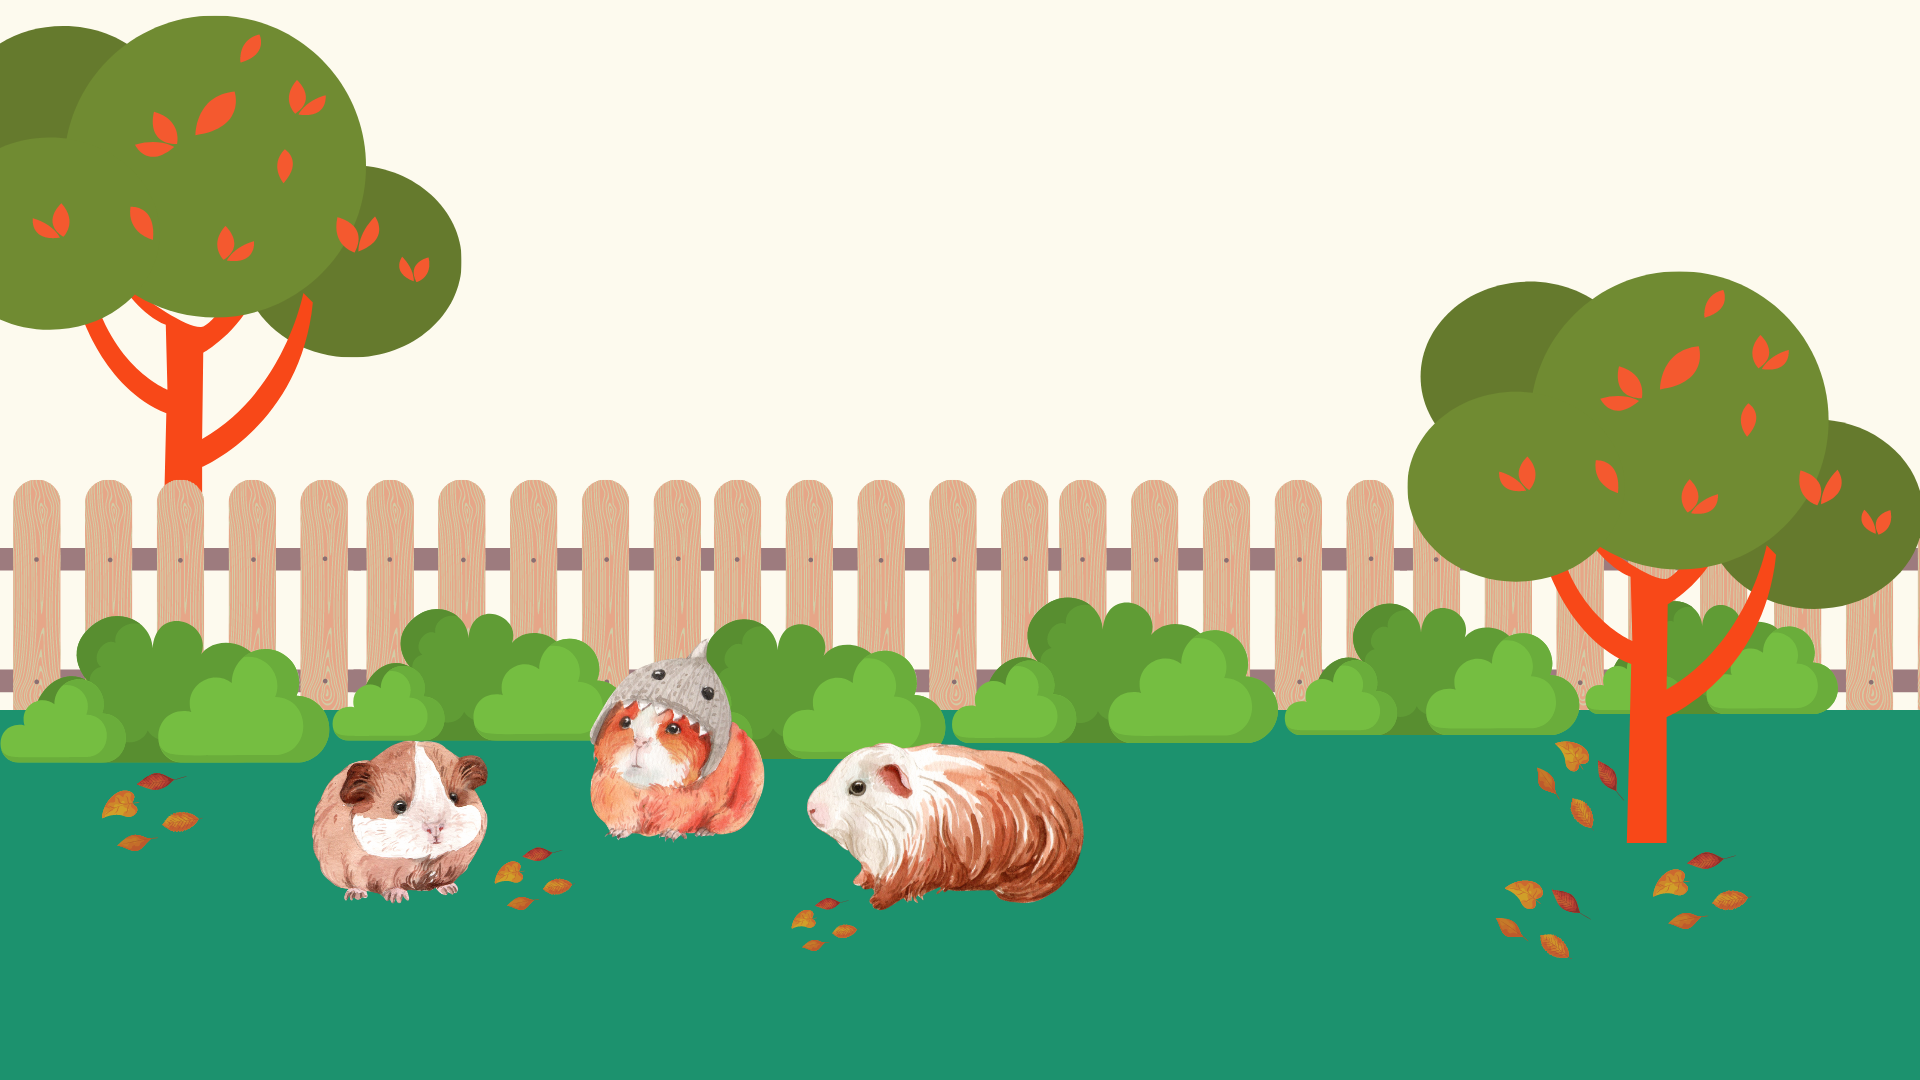
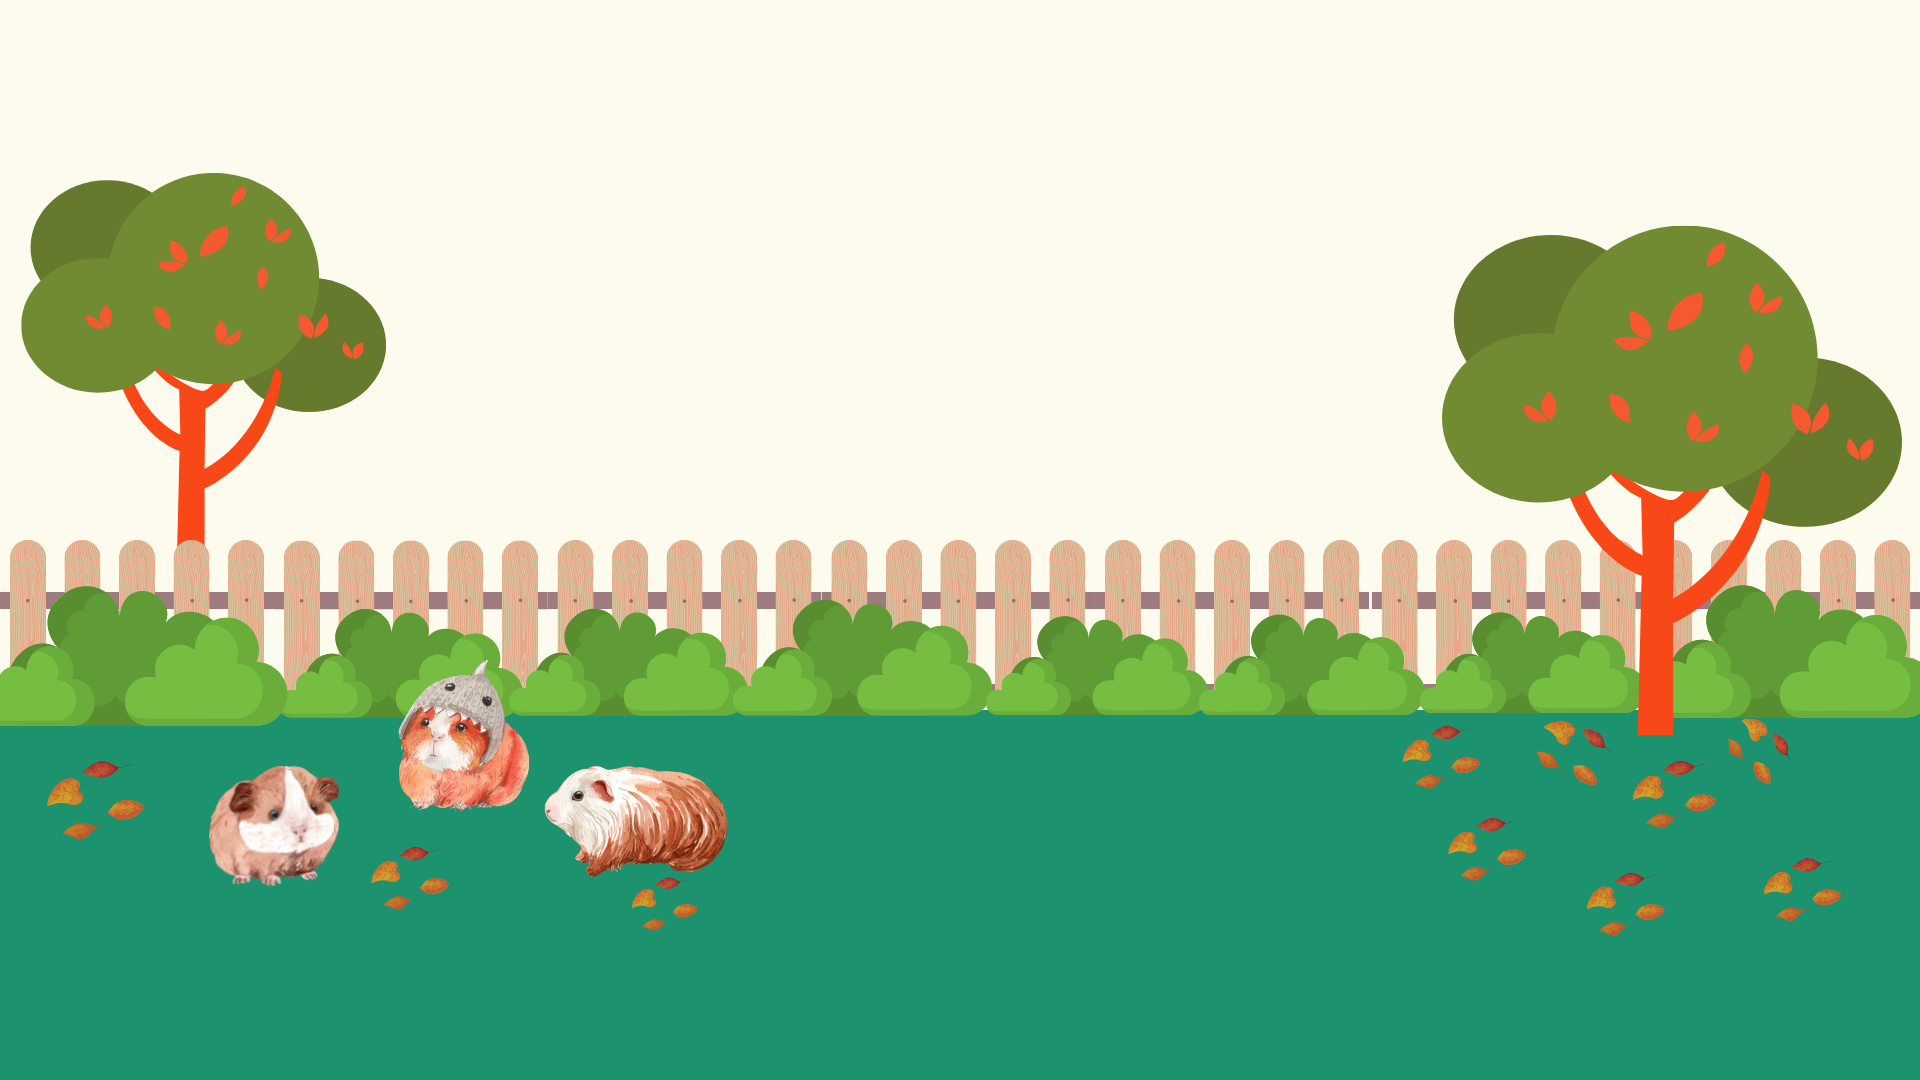
Realice cambios Responsive

Changed region(s): [[0.0, 0.0, 1.0, 0.8861], [0.7812, 0.3667, 0.8125, 0.3972]]

diff --git a/css/estilos.css b/css/estilos.css
@@ -1,10 +1,18 @@
 body {
+  height: 100vh;
+  width: 70%;
   background-image: url("../img/coby.png");
-  background-attachment: fixed;
+  background-size: cover;
   background-size: 100% 100%;
+  object-fit: scale-down;
+  font-size: 2rem;
   display: flex;
   flex-direction: column;
   position: relative;
+  height: 100%;
+  width: 100%;
+  object-fit: cover;
+  object-position: center top;
 }
 
 .bienvenida {
@@ -28,8 +36,9 @@ body {
 .bienvenida h1 {
   font-family: var(--font-display);
   text-transform: uppercase;
-  font-size: 4rem;
+  font-size: 2rem;
   margin-top: 0;
+  padding-bottom: 1rem;
 }
 
 .bienvenida-botones {
@@ -38,7 +47,7 @@ body {
 
 .bienvenida button {
   padding: 1rem 3rem;
-  margin: 0 1rem;
+  margin: 2rem;
   min-width: 20rem;
 }
 
@@ -48,20 +57,20 @@ h3 {
 }
 
 .cabecera {
-  padding: 0.3rem 2rem;
-  background: white;
+  padding: 2rem 1rem;
+  /*background: white;*/
   box-shadow: 1px 1px 5px rgba(0, 0, 0, 0.05);
   display: flex;
-  justify-content: space-between;
-  align-items: baseline;
+  justify-content: space-around;
+  align-items: center;
 }
 
 .cabecera-titulo {
   font-family: var(--font-display);
   font-weight: 600;
-  font-size: 1rem;
+  font-size: 1.5rem;
   text-transform: uppercase;
-  line-height: 1;
+  line-height: 2;
   margin: 0;
   color: rgba(7, 7, 7, 7);
 }
@@ -70,7 +79,7 @@ h3 {
   font-family: var(--font-display);
   color: #f84818;
   font-weight: 400;
-  font-size: 2.5rem;
+  font-size: 2.1rem;
   line-height: 0.9;
 }
 
@@ -91,7 +100,7 @@ main {
 
 .mesa {
   display: flex;
-  padding-bottom: 11rem;
+  padding-top: 2rem;
   flex-wrap: wrap;
   align-items: center;
   align-content: center;
@@ -102,7 +111,8 @@ main {
 .tarjeta {
   width: 6rem;
   height: 6rem;
-  margin: 0.5rem;
+  margin: 0.2rem;
+  margin-top: 1rem;
   border-radius: 0.9em;
   background-image: var(--gradient);
   box-shadow: 1px 1px 3px rgba(0, 0, 0, 0.25), 4px 4px 10px rgba(0, 0, 0, 0.2);
@@ -239,7 +249,7 @@ button {
   background-image: var(--gradient);
   padding: 0.75rem 4rem;
   border-radius: 5rem;
-  color: rgb(250, 247, 245);
+  color: rgb(8, 8, 8);
   font-family: var(--font-display);
   font-weight: 600;
   text-transform: uppercase;
@@ -250,7 +260,7 @@ button {
 
 button:hover,
 button:focus {
-  opacity: 0.7;
+  opacity: 0.9;
   outline: 0;
 }
 
@@ -328,4 +338,65 @@ button:focus {
   font-size: 2rem;
   font-family: sans-serif;
   font-weight: 300;
+}
+
+@media (max-width: 600px) {
+  body {
+    flex-direction: column;
+  }
+
+  body {
+    background-image: none;
+    background-color: #e6a688;
+  }
+
+  .cabecera {
+    width: 100%;
+    justify-content: space-between;
+    background-color: #ffff;
+  }
+
+  .cabecera-titulo {
+    font-size: 12px;
+    line-height: 10px;
+    font-weight: 300;
+  }
+
+  .cabecera-num {
+    font-size: 14px;
+    line-height: 40px;
+    font-weight: 300;
+  }
+  button {
+    background-image: none;
+    color: rgb(7, 7, 7);
+    width: 2rem;
+    min-width: 10rem;
+    font-size: 1rem;
+  }
+  .bienvenida button {
+    min-width: 15rem;
+    margin: 0.5rem;
+  }
+
+  .bienvenida h1 {
+    font-size: 24px;
+    line-height: 40px;
+    font-weight: 300;
+  }
+
+  .control-nivel {
+    display: none;
+  }
+  h3 {
+    font-size: 20px;
+  }
+  .selecciona-nivel {
+    font-size: 0.5rem;
+  }
+  .tarjeta {
+    width: 4rem;
+    height: 4rem;
+    border-radius: 0.4em;
+  }
 }

diff --git a/css/site.css b/css/site.css
@@ -2,8 +2,8 @@
   --bg: #f7dde1;
   --font: "Archivo", sans-serif;
   --font-display: "Permanent Marker", cursive;
-  --hotpink: #e93301;
-  --orange: #00140a;
+  --hotpink: #f84818;
+  --orange: #f84818;
   --black: #0000;
   --gradient: linear-gradient(35deg, var(--orange), var(--hotpink));
 }
@@ -15,6 +15,5 @@
 body {
   margin: auto;
   min-height: 100vh;
-  background: var(--bg);
   font-family: var(--font);
 }

diff --git a/js/variables-globales.js b/js/variables-globales.js
@@ -6,8 +6,7 @@ var grupoTarjetas = [
   ["🥕", "🥬"],
   ["🍉", "🍎"],
   ["🍓", "🥭", "🥝", "🍅"],
-  ["🥦", "🍆", "🥒", "🍐"],
-  ["🍊", "🍒", "🍇", "🍍"],
+  ["🥦", "🍆", "🥒"],
 ];
 var nivelActual = 0;
 var niveles = [
